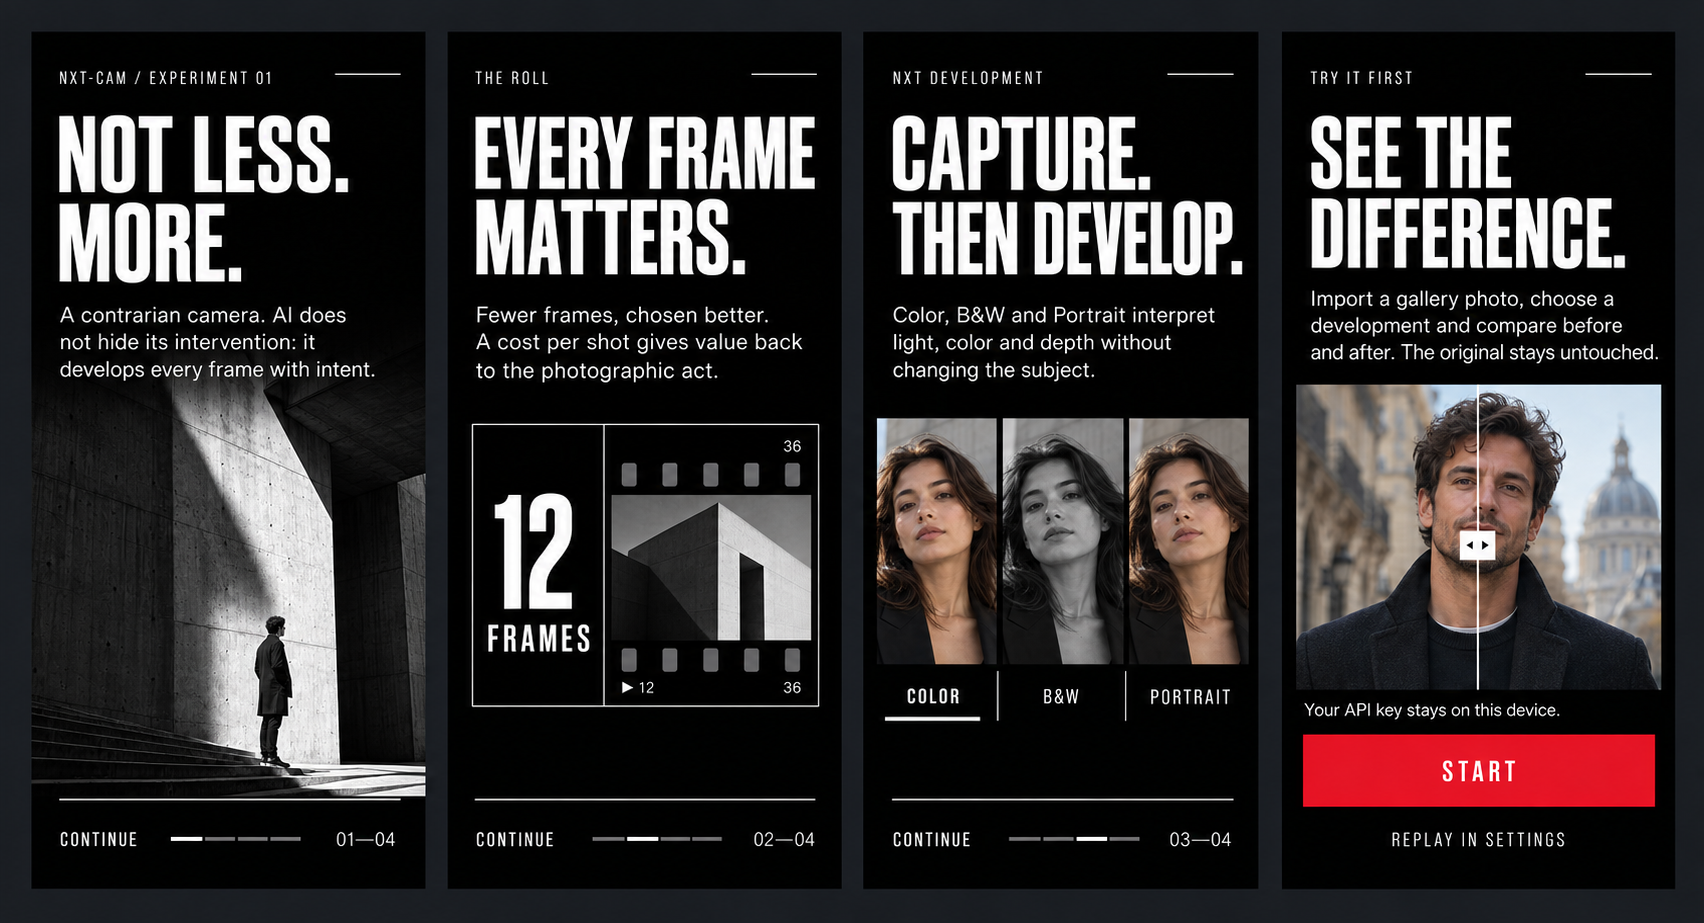
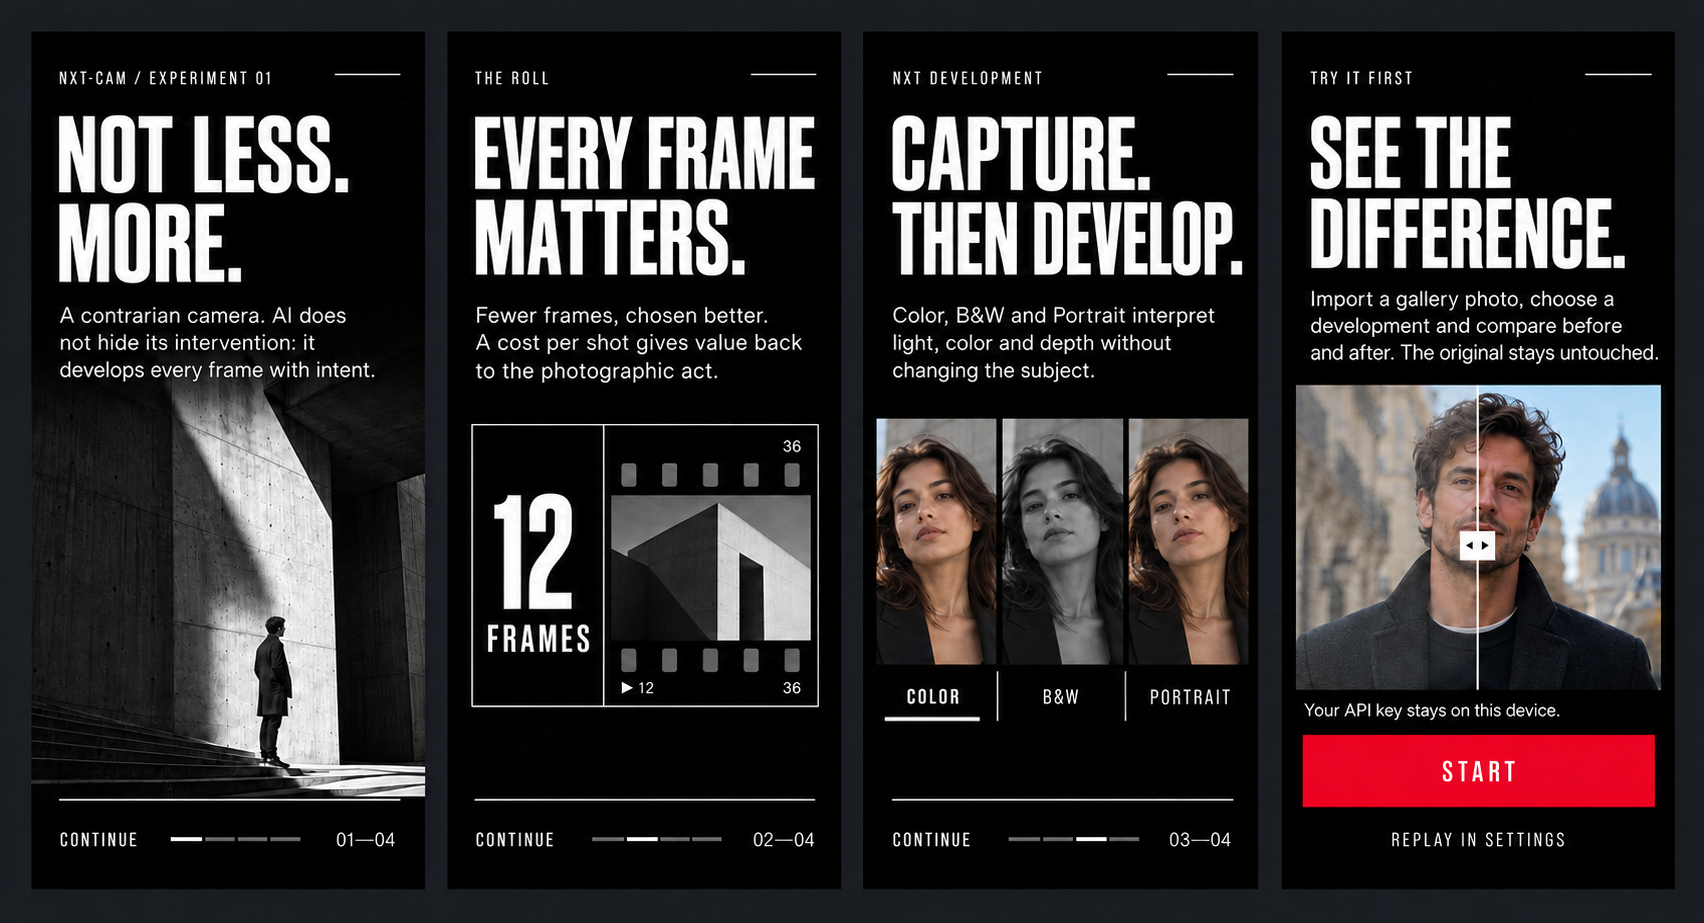
Strengthen onboarding before-and-after contrast

diff --git a/app/src/main/java/it/noxia/leicaai/OnboardingArtworkView.kt b/app/src/main/java/it/noxia/leicaai/OnboardingArtworkView.kt
@@ -162,16 +162,22 @@ class OnboardingArtworkView @JvmOverloads constructor(
             comparison,
             RectF(0f, 0f, w, bottom),
             ColorMatrixColorFilter(
-                ColorMatrix(
-                    floatArrayOf(
-                        0.92f, 0f, 0f, 0f, -2f,
-                        0f, 0.95f, 0f, 0f, -1f,
-                        0f, 0f, 1.02f, 0f, 2f,
-                        0f, 0f, 0f, 1f, 0f
+                ColorMatrix().apply {
+                    setSaturation(0.38f)
+                    postConcat(
+                        ColorMatrix(
+                            floatArrayOf(
+                                0.72f, 0f, 0f, 0f, 34f,
+                                0f, 0.72f, 0f, 0f, 34f,
+                                0f, 0f, 0.72f, 0f, 34f,
+                                0f, 0f, 0f, 1f, 0f
+                            )
+                        )
                     )
-                )
+                }
             )
         )
+        drawBeforeTexture(canvas, center, bottom)
         canvas.restore()
 
         canvas.save()
@@ -209,6 +215,30 @@ class OnboardingArtworkView @JvmOverloads constructor(
         canvas.drawText("ORIGINAL", w * 0.25f, h - dp(7f), paint)
         paint.color = Color.WHITE
         canvas.drawText("NXT", w * 0.75f, h - dp(7f), paint)
+    }
+
+    private fun drawBeforeTexture(canvas: Canvas, panelWidth: Float, panelHeight: Float) {
+        paint.style = Paint.Style.FILL
+        paint.color = Color.argb(24, 224, 226, 222)
+        canvas.drawRect(0f, 0f, panelWidth, panelHeight, paint)
+
+        var seed = 0x4E585443
+        val speckCount = ((panelWidth * panelHeight) / dp(24f)).toInt().coerceIn(420, 1_200)
+        repeat(speckCount) {
+            seed = seed * 1_664_525 + 1_013_904_223
+            val x = ((seed ushr 8) and 0xFFFF) / 65_535f * panelWidth
+            seed = seed * 1_664_525 + 1_013_904_223
+            val y = ((seed ushr 8) and 0xFFFF) / 65_535f * panelHeight
+            seed = seed * 1_664_525 + 1_013_904_223
+            paint.color = if ((seed and 1) == 0) {
+                Color.argb(30, 255, 255, 255)
+            } else {
+                Color.argb(24, 0, 0, 0)
+            }
+            val radius = if ((seed and 3) == 0) dp(0.55f) else dp(0.32f)
+            canvas.drawCircle(x, y, radius, paint)
+        }
+        paint.color = Color.WHITE
     }
 
     private fun drawBitmapCenterCrop(
